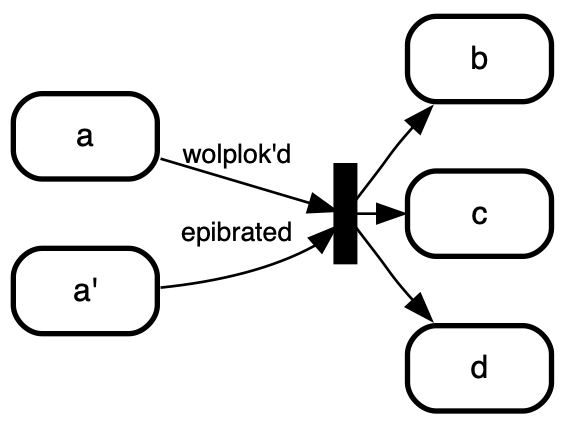
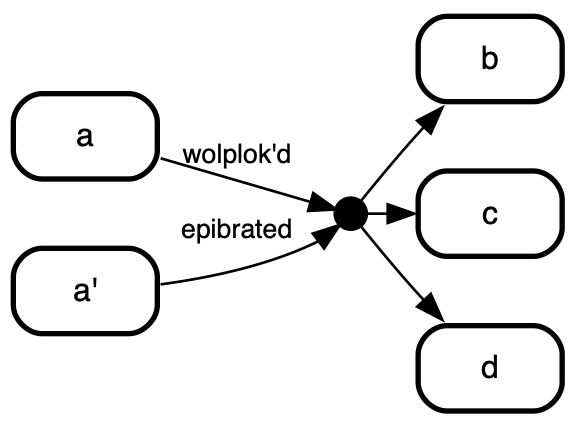
doc(readme): update doc with auto fork, join, junction detection

diff --git a/README.md b/README.md
@@ -300,24 +300,24 @@ b => ]join;
 ]join => c;
 ```
 
-> For diagramming purposes all these map to the _forkjoin_ pseudo 
-> type. If you're using _state machine cat_ as an input for a code
-> generator - i.e. via the json or xmi output - you might want to
-> be more explicit about which of the three you're specifying. In 
-> that case you can use [explicit type overrides](#overriding-the-type-of-a-state)
+<img width="224" alt="rendition" src="https://raw.githubusercontent.com/sverweij/state-machine-cat/master/docs/pics/03bforkjoin.png">
 
-#### Junctions
-Despite striking similarities with _forks_ and _joins_, _junctions_
-sometimes have a different notation. If you desire so declare
-the junction explicitly with the `type` attribute:
+> State machine cat automatically derives which of the three types
+> you meant by counting the number of incoming and the number of
+> outgoing connections:
+> - 1 incoming and multiple outgoing: it's a _fork_
+> - multiple incoming and 1 outgoing: it's a _join_
+> - all other cases: it's a _junction_
+>
+> If you want to defy UML semantics you can do that with
+> [explicit type overrides](#overriding-the-type-of-a-state) .
+
 
 ```smcat
-kruising [type=junction];
-
-a => kruising
-b => kruising;
-kruising => c;
-kruising => d;
+a => ]kruising
+b => ]kruising;
+]kruising => c;
+]kruising => d;
 ```
 <img width="224" alt="rendition" src="https://raw.githubusercontent.com/sverweij/state-machine-cat/master/docs/pics/03cjunction.png">
 
